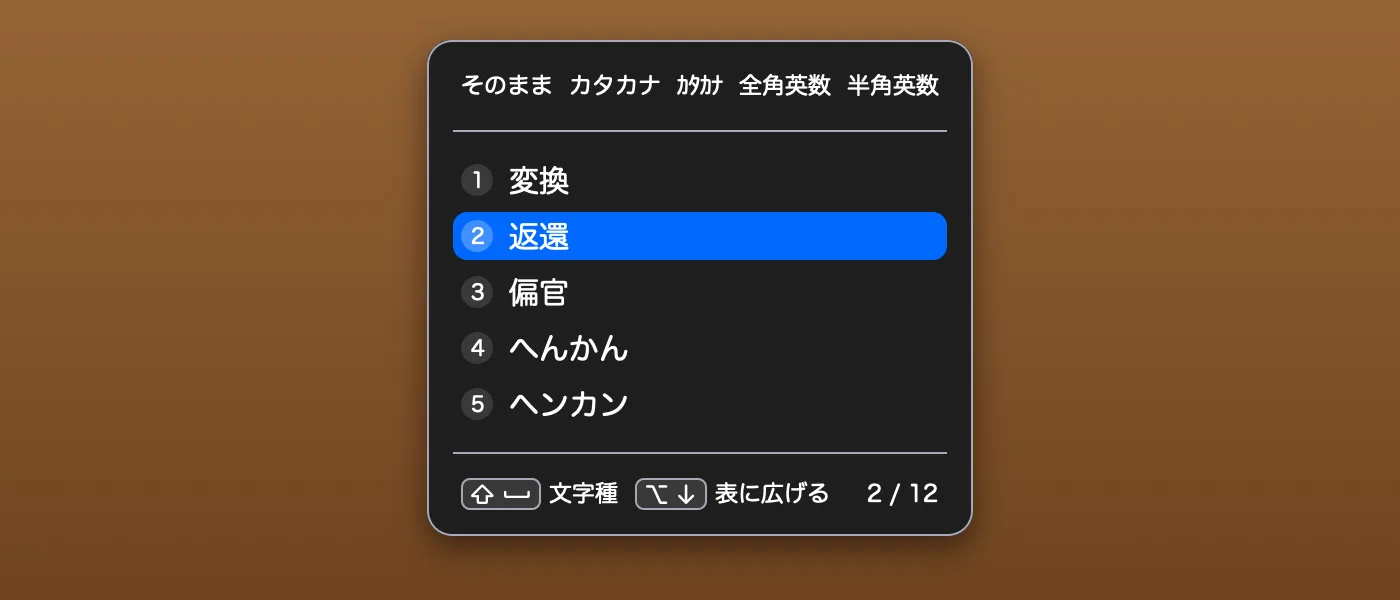
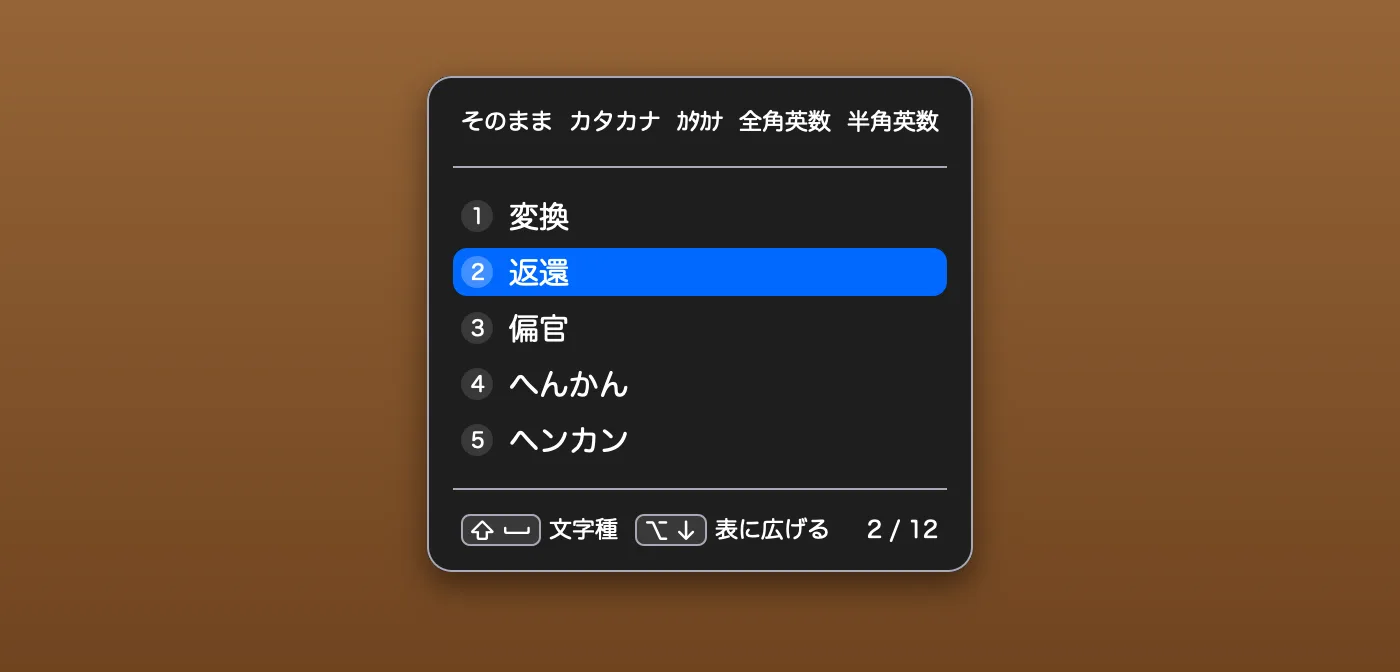
fix(design): 公式サイトの機能の写真の縦横の比をそろえ，設定の画面の余白を役割のトークンにする (#475)

diff --git a/apps/macos/Hajime/Settings/KeymapPage.swift b/apps/macos/Hajime/Settings/KeymapPage.swift
@@ -47,7 +47,7 @@ struct KeymapPage: View {
     }
 
     var body: some View {
-        VStack(alignment: .leading, spacing: 10) {
+        VStack(alignment: .leading, spacing: DesignTokens.Size.Space.section) {
             toolbar
             missingWarning
             composer
@@ -77,7 +77,7 @@ struct KeymapPage: View {
     // MARK: 検索とひな形
 
     private var toolbar: some View {
-        HStack(spacing: 8) {
+        HStack(spacing: DesignTokens.Size.Space.group) {
             TextField(Keys.searchPrompt, text: $query)
                 .textFieldStyle(.roundedBorder)
             if recording == .search {
@@ -130,7 +130,7 @@ struct KeymapPage: View {
         let missing = keymap.missingEssentials
         if !missing.isEmpty {
             GroupBox {
-                VStack(alignment: .leading, spacing: 2) {
+                VStack(alignment: .leading, spacing: DesignTokens.Size.Space.stack) {
                     ForEach(Array(missing.enumerated()), id: \.offset) { _, item in
                         Label(Keys.missing(state: Keys.label(for: item.state), command: Keys.label(for: item.command)),
                               systemImage: "exclamationmark.triangle.fill")
@@ -147,8 +147,8 @@ struct KeymapPage: View {
 
     private var composer: some View {
         GroupBox(Keys.newRow) {
-            VStack(alignment: .leading, spacing: 4) {
-                HStack(spacing: 8) {
+            VStack(alignment: .leading, spacing: DesignTokens.Size.Space.stack) {
+                HStack(spacing: DesignTokens.Size.Space.group) {
                     statePicker(selection: Binding(get: { draft.state }, set: setDraftState), command: nil)
                         .frame(width: DesignTokens.Size.Settings.keymapStateWidth)
                     KeyField(stroke: draft.stroke, isRecording: recording == .draft,
@@ -326,7 +326,7 @@ struct KeymapPage: View {
     // MARK: 下の操作
 
     private var footer: some View {
-        VStack(alignment: .leading, spacing: 6) {
+        VStack(alignment: .leading, spacing: DesignTokens.Size.Space.stack) {
             HStack {
                 Button(Keys.remove) { remove(selection) }
                     .disabled(selection.isEmpty)
@@ -403,7 +403,7 @@ struct KeyField: View {
     private typealias Keys = UIStrings.Keys
 
     var body: some View {
-        HStack(spacing: 2) {
+        HStack(spacing: DesignTokens.Size.Space.inline) {
             if isRecording {
                 KeyCapture(onCapture: { stroke in
                     onRecord(false)

diff --git a/apps/macos/Hajime/UI/BranchView.swift b/apps/macos/Hajime/UI/BranchView.swift
@@ -92,7 +92,7 @@ final class BranchView: NSView {
         let footer = max(Glass.keycapHeight, Glass.noteIconSize, (labelFont.ascender - labelFont.descender).rounded(.up))
         if theme.isRounded {
             return Metrics(inset: Size.frameWidth + Glass.windowPadding, rowHeight: (Glass.rowHeight * scale).rounded(), trunkGap: Glass.trunkGap,
-                           branchIndent: Glass.branchIndent, stemX: Glass.branchStemX, lead: Glass.badgeSize + Size.paddingX,
+                           branchIndent: Glass.branchIndent, stemX: Glass.branchStemX, lead: Glass.badgeSize + Glass.badgeGap,
                            footerHeight: footer, rowInset: Glass.selectionInsetY, lineWidth: Glass.lineWidth,
                            lineWidthSelected: Glass.lineWidthSelected, rootInset: Glass.selectionInsetY)
         }

diff --git a/apps/macos/Hajime/Settings/AboutPage.swift b/apps/macos/Hajime/Settings/AboutPage.swift
@@ -115,7 +115,7 @@ private struct AcknowledgementRow: View {
     let item: Acknowledgement
 
     var body: some View {
-        VStack(alignment: .leading, spacing: 4) {
+        VStack(alignment: .leading, spacing: DesignTokens.Size.Space.stack) {
             Text(item.name).font(.headline)
             ForEach(item.sources, id: \.self) { source in
                 value(source).font(.callout)
@@ -130,7 +130,7 @@ private struct AcknowledgementRow: View {
                 .font(.callout)
             }
         }
-        .padding(.vertical, 4)
+        .padding(.vertical, DesignTokens.Size.Space.inset)
     }
 
     /// 行の中の URL だけを押せるようにする．前置き(「改変したもの: 」)と URL のあとの文はそのまま文字で出し，左にそろえて折り返す

diff --git a/apps/macos/Hajime/UI/CandidateView.swift b/apps/macos/Hajime/UI/CandidateView.swift
@@ -47,7 +47,7 @@ final class CandidateView: NSView {
     /// 行の背景の内側の左右の余白．番号の丸(番号)の左と注釈のタグの右，足元の案内と位置の左右の端をここにそろえる
     private var rowPaddingX: CGFloat { theme.isRounded ? Glass.rowPaddingX : Size.paddingX }
     /// 番号の幅(番号から候補の文字まで)
-    private var lead: CGFloat { theme.isRounded ? Glass.badgeSize + Size.paddingX : Size.indexWidth }
+    private var lead: CGFloat { theme.isRounded ? Glass.badgeSize + Glass.badgeGap : Size.indexWidth }
 
     // MARK: - 語の意味
 

diff --git a/apps/macos/Hajime/Settings/AppearancePage.swift b/apps/macos/Hajime/Settings/AppearancePage.swift
@@ -124,7 +124,8 @@ private struct ThemeRow: View {
 
     var body: some View {
         Button(action: select) {
-            HStack(spacing: 10) {
+            // 選ぶ印・色の見本・名前は，見本と情報の列(パレットの説明の欄)と同じくまとまりの間だけ離す
+            HStack(spacing: DesignTokens.Size.Space.group) {
                 Image(systemName: isSelected ? "largecircle.fill.circle" : "circle")
                     .foregroundStyle(isSelected ? Color.accentColor : Color.secondary)
                 ThemeSwatch(theme: ResolvedTheme.resolve(choice))

diff --git a/apps/macos/Hajime/Settings/SettingsRows.swift b/apps/macos/Hajime/Settings/SettingsRows.swift
@@ -8,7 +8,8 @@ struct ResettableRow<Value: Equatable, Content: View>: View {
     @ViewBuilder let content: () -> Content
 
     var body: some View {
-        HStack(spacing: 6) {
+        // 部品と「既定に戻す」は押し間違えないようにまとまりの間だけ離す
+        HStack(spacing: DesignTokens.Size.Space.group) {
             content()
             if model.settings[keyPath: keyPath] != DefaultSettings.settings[keyPath: keyPath] {
                 Button {

diff --git a/apps/macos/Hajime/Settings/WordLanguagePage.swift b/apps/macos/Hajime/Settings/WordLanguagePage.swift
@@ -102,7 +102,7 @@ struct WordLanguagePage: View {
 
     /// 試した結果の 1 語．入る文字と，英語か日本語かを並べる
     private func resultChip(_ word: WordLanguagePreview.Word) -> some View {
-        VStack(spacing: 2) {
+        VStack(spacing: DesignTokens.Size.Space.fine) {
             Text(word.shown)
             Text(UIStrings.Features.label(for: word.language))
                 .font(.caption2)

diff --git a/tools/check/check_spacing.py b/tools/check/check_spacing.py
@@ -81,13 +81,8 @@ PENDING_SECTIONS: dict[str, str] = {
     "settings": FOLLOW_UP_SETTINGS, "settings-windows": FOLLOW_UP_SETTINGS,
 }
 PENDING_FILES: dict[str, str] = {
-    "apps/macos/Hajime/Settings/AboutPage.swift": FOLLOW_UP_SETTINGS,
-    "apps/macos/Hajime/Settings/AppearancePage.swift": FOLLOW_UP_SETTINGS,
     "apps/macos/Hajime/Settings/AssociationSection.swift": FOLLOW_UP_SETTINGS,
     "apps/macos/Hajime/Settings/DictionaryPage.swift": FOLLOW_UP_SETTINGS,
-    "apps/macos/Hajime/Settings/KeymapPage.swift": FOLLOW_UP_SETTINGS,
-    "apps/macos/Hajime/Settings/SettingsRows.swift": FOLLOW_UP_SETTINGS,
-    "apps/macos/Hajime/Settings/WordLanguagePage.swift": FOLLOW_UP_SETTINGS,
     "apps/windows/crates/candidate-ui/src/app/preview.rs": FOLLOW_UP_SETTINGS,
     "apps/windows/crates/settings/src/app/page.rs": FOLLOW_UP_SETTINGS,
     "apps/windows/crates/settings/src/app/paint.rs": FOLLOW_UP_SETTINGS,

diff --git a/apps/windows/crates/tokens/src/generated.rs b/apps/windows/crates/tokens/src/generated.rs
@@ -301,6 +301,7 @@ pub mod size {
         pub const TAG_GLYPH_GAP: f32 = 2.0;
         pub const TAG_RADIUS: f32 = 4.0;
         pub const BADGE_SIZE: f32 = 16.0;
+        pub const BADGE_GAP: f32 = 8.0;
         pub const ICON_SIZE: f32 = 16.0;
         pub const ICON_PADDING: f32 = 3.0;
         pub const ICON_RADIUS: f32 = 4.0;
@@ -400,6 +401,7 @@ pub mod size {
         pub const LABEL_FONT_SIZE: f32 = 11.5;
         pub const KEY_FONT_SIZE: f32 = 10.5;
         pub const BADGE_SIZE: f32 = 16.0;
+        pub const BADGE_GAP: f32 = 8.0;
         pub const SELECTION_RADIUS: f32 = 7.0;
         pub const KEYCAP_RADIUS: f32 = 4.0;
         pub const KEYCAP_PADDING_X: f32 = 4.0;

diff --git a/apps/windows/crates/candidate-ui/src/scene/list.rs b/apps/windows/crates/candidate-ui/src/scene/list.rs
@@ -41,7 +41,7 @@ impl Metrics {
                 ),
                 style: Style::Rounded,
                 row_padding_x: glass::ROW_PADDING_X,
-                lead: glass::BADGE_SIZE + candidate::PADDING_X,
+                lead: glass::BADGE_SIZE + glass::BADGE_GAP,
             }
         } else {
             // 文字種の行と足元の行は，角丸のテーマと同じく文字・キー・案内のアイコンのいちばん高いもの

diff --git a/apps/windows/crates/candidate-ui/src/scene/branch.rs b/apps/windows/crates/candidate-ui/src/scene/branch.rs
@@ -72,7 +72,7 @@ impl Metrics {
                 trunk_gap: glass::TRUNK_GAP,
                 branch_indent: glass::BRANCH_INDENT,
                 stem_x: glass::BRANCH_STEM_X,
-                lead: glass::BADGE_SIZE + candidate::PADDING_X,
+                lead: glass::BADGE_SIZE + glass::BADGE_GAP,
                 footer_height,
                 row_inset: glass::SELECTION_INSET_Y,
                 shadow,
